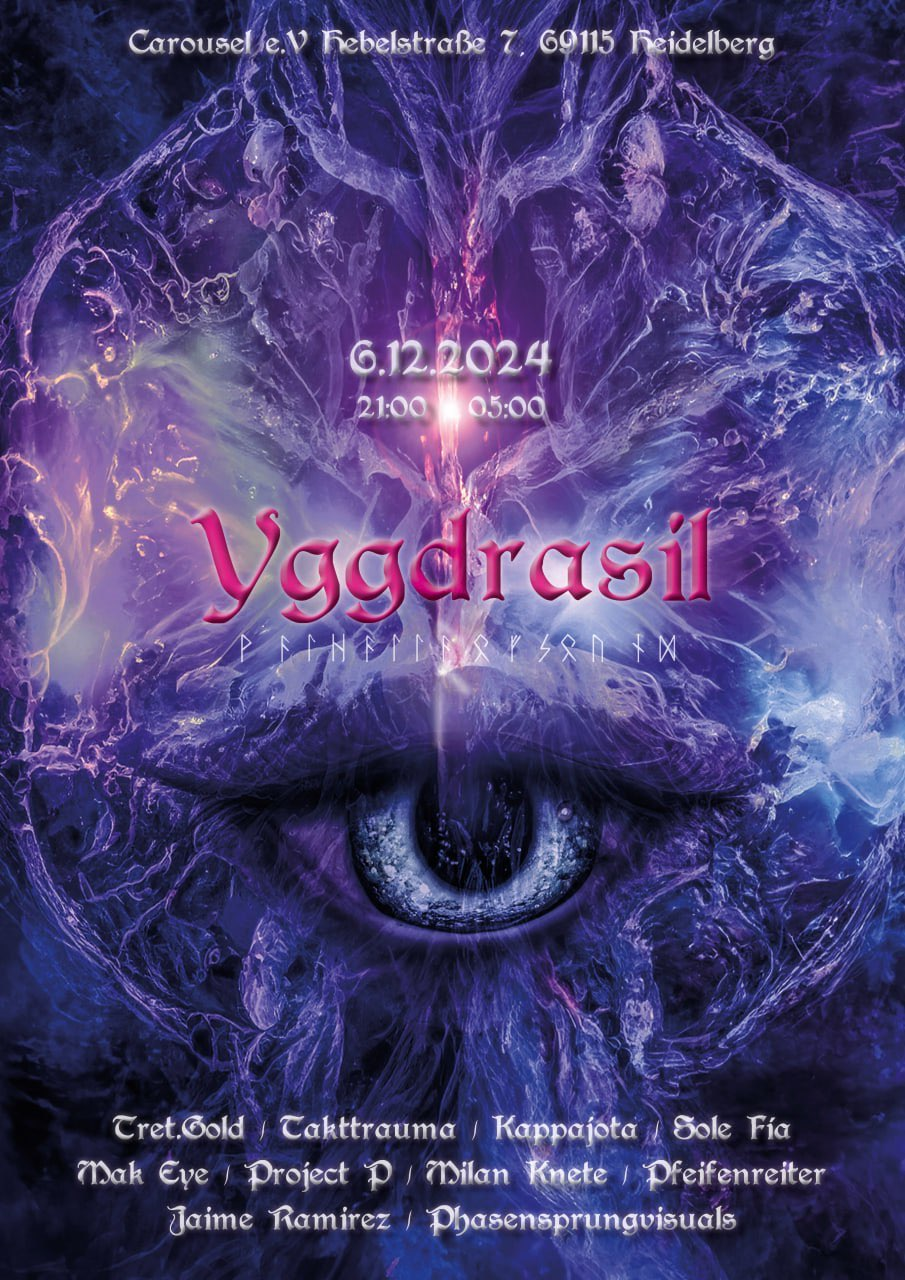
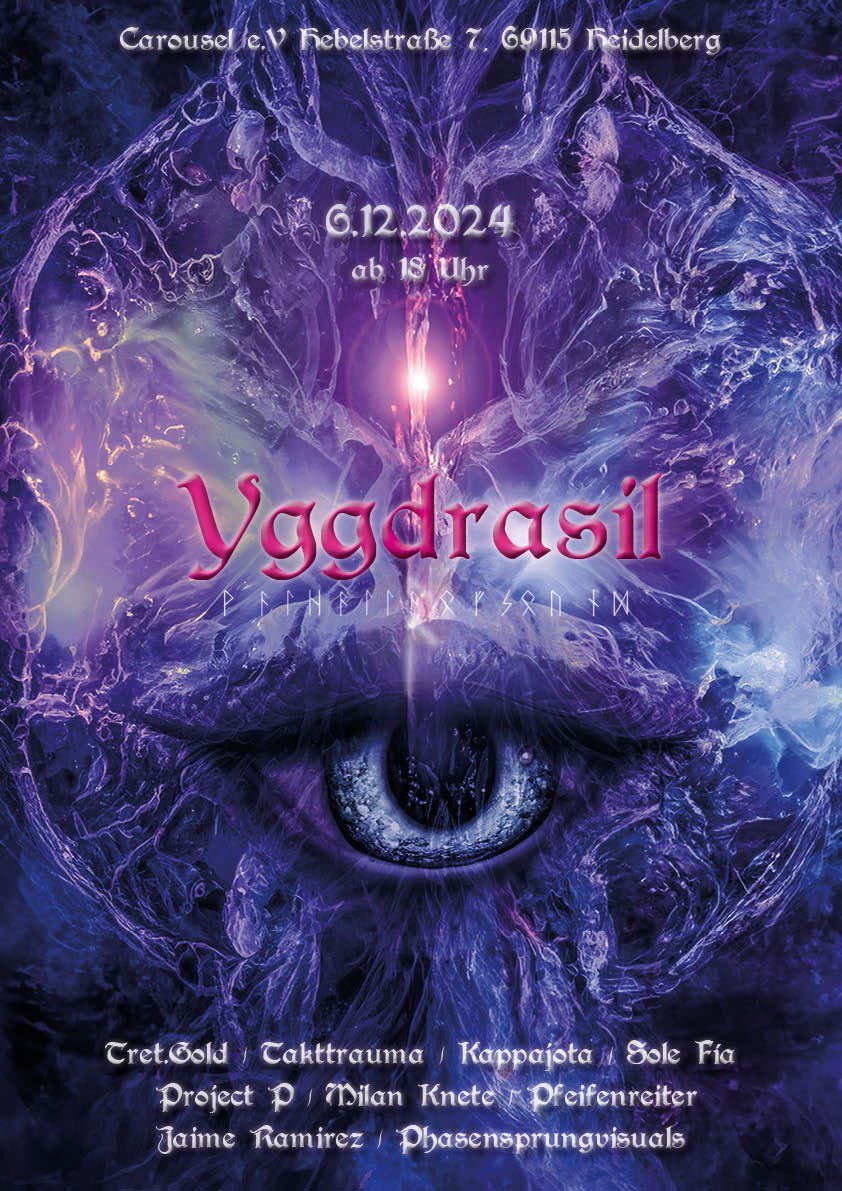
fix: event dates

diff --git a/src/events.ts b/src/events.ts
@@ -388,14 +388,11 @@ Rok is back!`,
 
       Es wird kalt, und wir laden euch ein, in unsere kleine neue Höhle zu kommen. Es wird kuschelig, es wird warmen Glühwein und Met geben. Draußen wird eine kleine gemütliche Oase für euch gestaltet.
 
-      Auftakt ist am 6. Dezember 2024 um 21 Uhr. Kommt pünktlich, denn in der Höhle haben nur 199 Wikinger/innen Platz. Der Eintritt kostet 10 Euro und wird an den Carousel e.V. gehen.**
+      Auftakt ist am 6. Dezember 2024 um 18 Uhr. Kommt pünktlich, denn in der Höhle haben nur 199 Wikinger/innen Platz. Der Eintritt kostet 10 Euro und wird an den Carousel e.V. gehen.**
 
       Eine Einladung
 
       Bringt eure Liebsten mit!  
-      Bringt euch ein und schreibt uns, wenn ihr helfen möchtet. Wir brauchen immer Unterstützung.  
-      Weitere Infos gibt es in unserer Telegram-Gruppe.  
-      Infogruppe: <a href=https://t.me/+b1XeoUnQC6A2MDBi>https://t.me/+b1XeoUnQC6A2MDBi</a>
 
       Ein paar Fakten:
 <ul>
